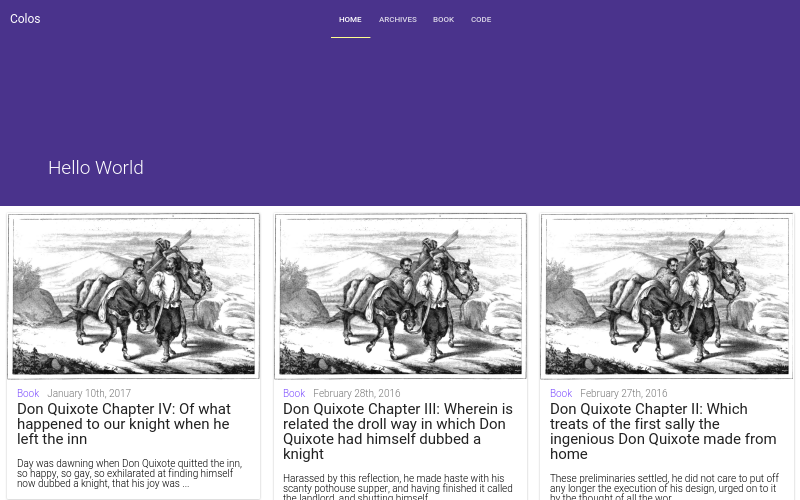
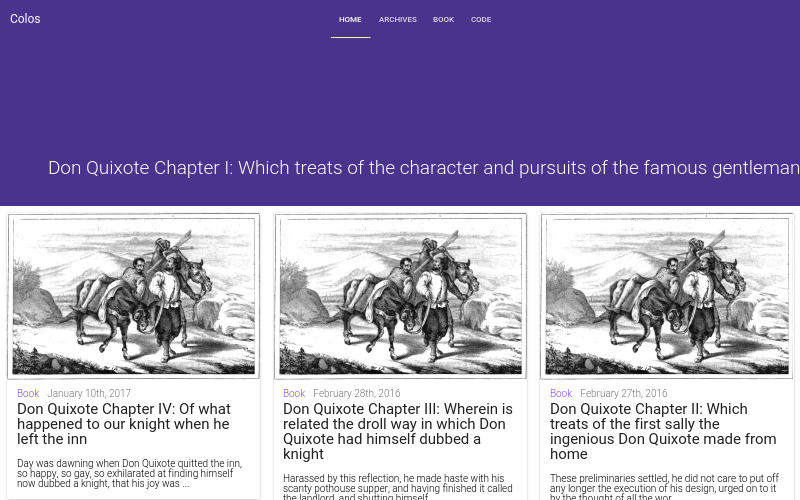
Change slide on background change
This is part of #54.

Built from 32cae92a1aef8f66493f5e25f07aab2493c575ff.

Changed region(s): [[0.0625, 0.3, 1.0, 0.36]]

diff --git a/source/lib/elements.html b/source/lib/elements.html
@@ -10484,7 +10484,7 @@ Modifications: Adrian Haasler <dev@adrianhaasler.com>
       <div id="backgroundRearLayer"></div>
       <div id="backgroundFrontLayer">
         <template is="dom-if" if="{{_slides.length}}">
-          <simple-carousel infinite-loop="true" auto="true" transition-time="{{interval}}" show-controls="false">
+          <simple-carousel id="backgroundCarousel" infinite-loop="true" auto="true" transition-time="{{interval}}" show-controls="false">
             <template is="dom-repeat" items="{{_slides}}">
               <carousel-slide class$="{{_slideClasses(item)}}" style="background-image: {{_bgImageStyle(item)}};"></carousel-slide>
             </template>
@@ -10646,13 +10646,19 @@ Modifications: Adrian Haasler <dev@adrianhaasler.com>
       _currentSlide: 0,
 
       ready: function() {
+        var self = this;
         this._slides = Polymer.dom(this).querySelectorAll('[slide]');
         if (this._slides.length > 0) {
           this._showSlide(0);
         }
         if (this._slides.length > 1) {
-          this._initTimer();
+          // this._initTimer();
         }
+        this.async(function() {
+          self.$$('#backgroundCarousel').addEventListener("selected-changed", function(e) {
+            self._nextSlide();
+          });
+        });
       },
 
       /**
